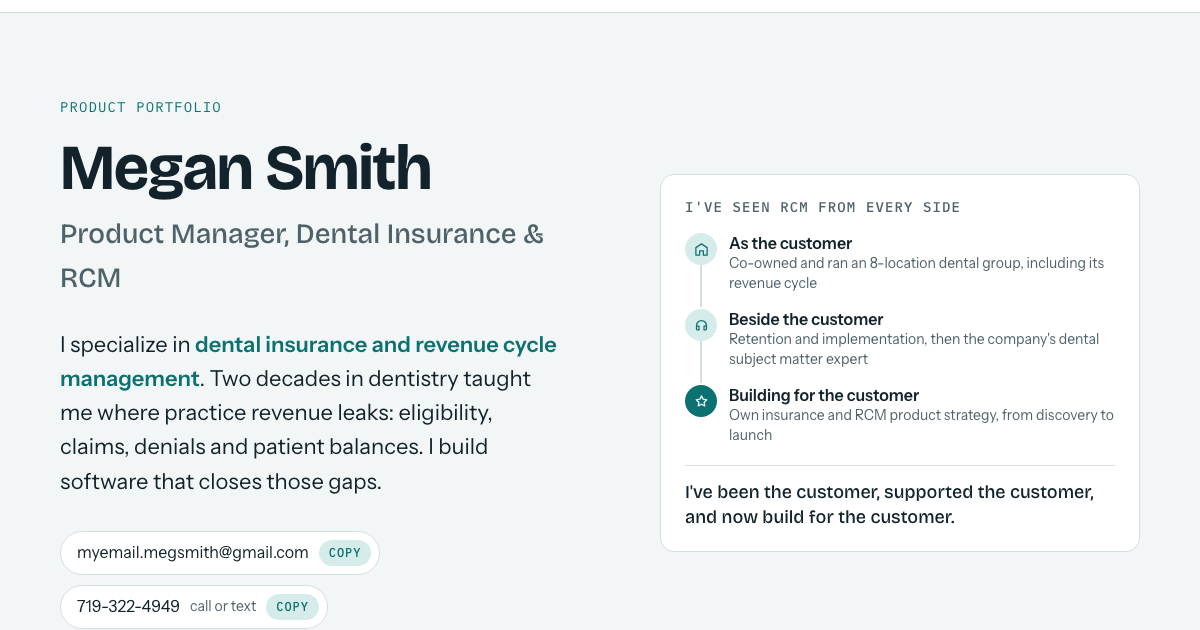
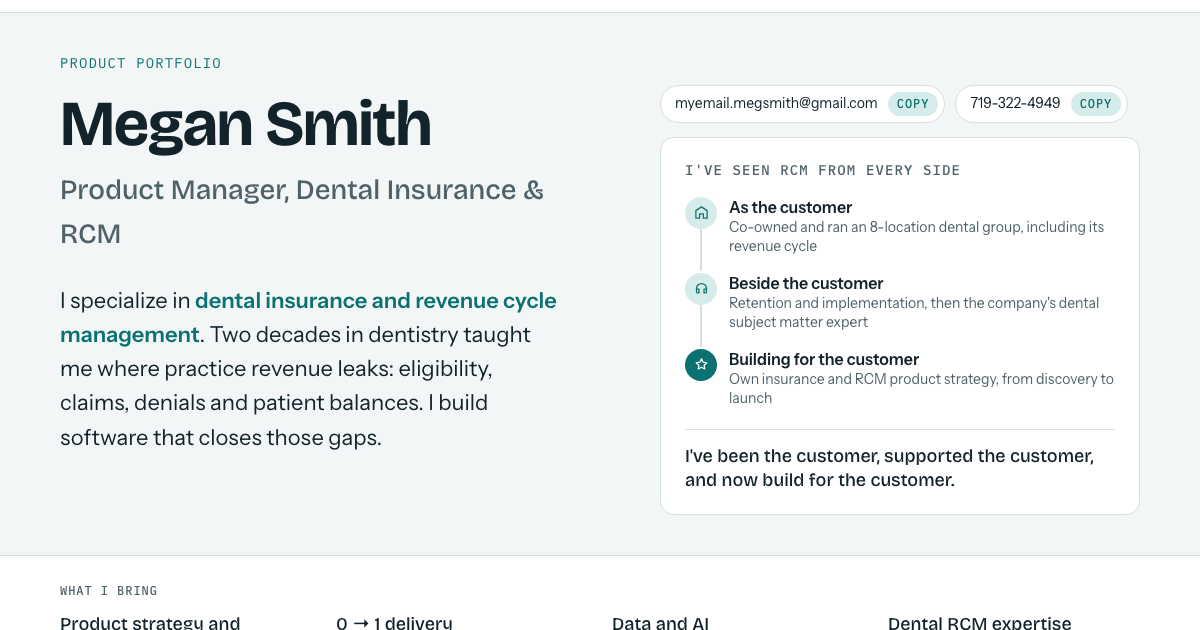
Shorter hero: contact above the card, less empty space; refresh preview image

diff --git a/index.html b/index.html
@@ -396,13 +396,17 @@
   .back:hover { text-decoration: underline; }
 
   /* ---------- Hero ---------- */
-  .hero { padding-block: clamp(40px, 7vw, 88px) 56px; }
+  .hero { padding-block: 40px 40px; }
   .hero-grid {
     display: grid;
     grid-template-columns: minmax(0, 1.1fr) minmax(0, 1fr);
     gap: clamp(32px, 6vw, 72px);
-    align-items: center;
+    align-items: start;
   }
+  .hero-side { display: grid; gap: 14px; min-width: 0; }
+  .hero-contact { margin-top: 0; gap: 8px; flex-wrap: wrap; }
+  .hero-contact .copy { padding: 6px 9px; }
+  .hero-contact .chip { font-size: 14px; padding: 6px 6px 6px 14px; }
   .eyebrow {
     font-family: var(--font-mono);
     font-size: 14px;
@@ -1510,19 +1514,19 @@
         I build software that closes those gaps.
       </p>
 
-      <div class="contact">
+    </div>
+
+    <div class="hero-side">
+      <div class="contact hero-contact">
         <span class="chip">
           <a href="mailto:myemail.megsmith@gmail.com" id="email">myemail.megsmith@gmail.com</a>
           <button class="copy" type="button" data-copy="myemail.megsmith@gmail.com" aria-label="Copy email address">Copy</button>
         </span>
         <span class="chip">
           <a href="tel:+17193224949" id="phone">719-322-4949</a>
-          <span class="note">call or text</span>
           <button class="copy" type="button" data-copy="719-322-4949" aria-label="Copy phone number">Copy</button>
         </span>
       </div>
-    </div>
-
     <section class="vp-card" aria-labelledby="vp-title">
       <h2 id="vp-title">I've seen RCM from every side</h2>
       <ol class="vp-list">
@@ -1535,6 +1539,7 @@
       </ol>
       <p class="vp-foot">I've been the customer, supported the customer, and now build for the customer.</p>
     </section>
+    </div>
   </div>
 </header>
 
